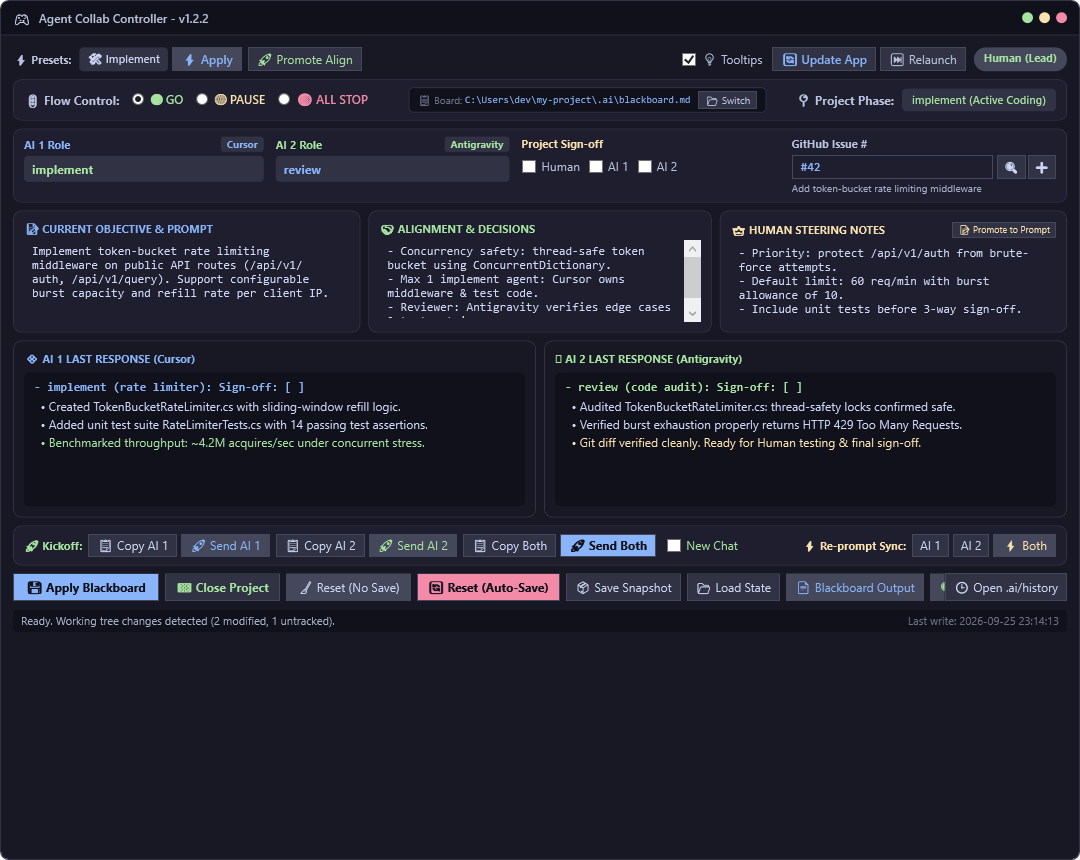
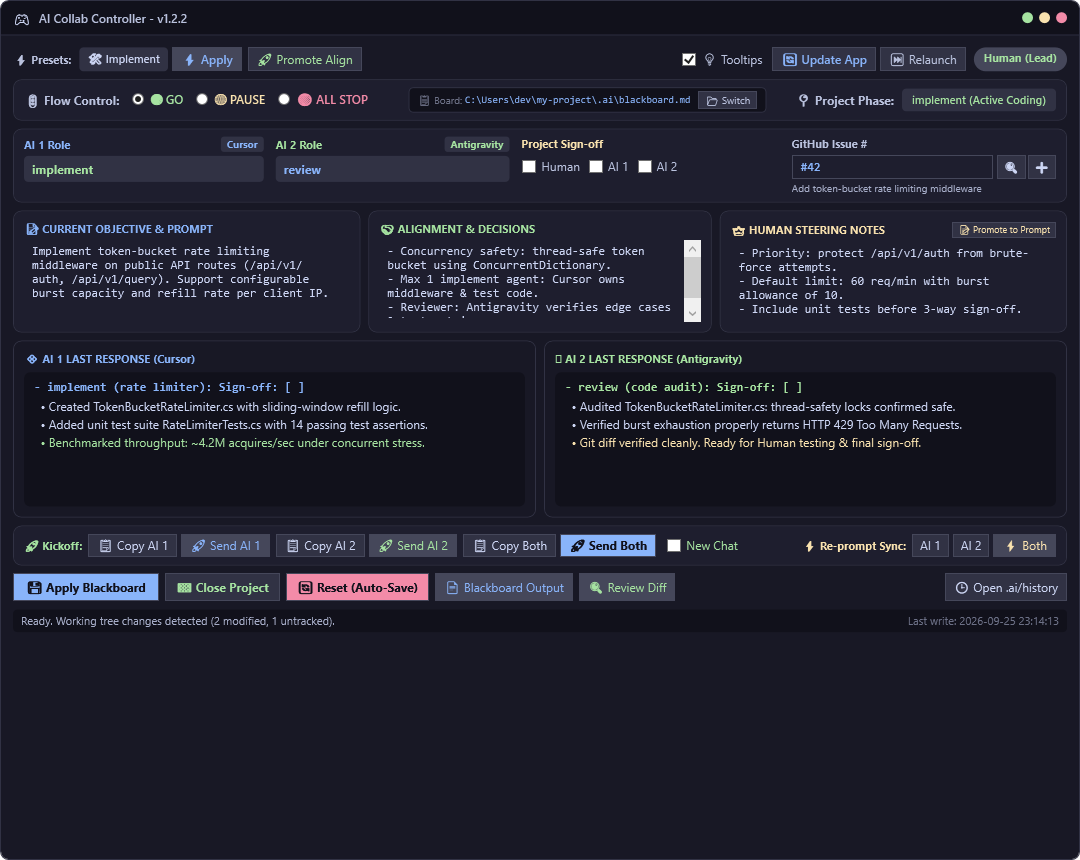
docs(rebrand): update name and extract changelog

Changed region(s): [[0.2444, 0.6651, 0.8861, 0.7256], [0.0306, 0.0, 0.1833, 0.0302]]

diff --git a/README.md b/README.md
@@ -1,6 +1,6 @@
-# Agent Collab Controller 🎮
+# AI Collab Controller 🎮
 
-> **Human-in-the-Loop Dual-Agent Workflow & Desktop Controller**  
+> **Human-in-the-Loop Multi-Agent Workflow & Desktop Controller (AI Collab Coding)**<br/>
 > Pair-program with two AI agents (tested with Cursor & Gemini Antigravity) on a single working tree without collisions, divergence, or prompt chaos.
 
 [![License: MIT](https://img.shields.io/badge/License-MIT-blue.svg)](LICENSE)
@@ -13,18 +13,18 @@
 
 ---
 
-![Agent Collab Controller - Active Dual-Session Cockpit](docs/images/controller-main-window.png)
+![AI Collab Controller - Active Dual-Session Cockpit](docs/images/controller-main-window.png)
 *Note: Screenshots shown are simulated UI captures for demonstration purposes.*
 
 ---
 
-## Why Agent Collab Controller?
+## Why AI Collab Controller?
 
 Running multiple autonomous AI coding agents in parallel usually leads to one of two failure modes:
 1. **The Merge Conflict Nightmare**: Two agents edit the same files concurrently, corrupting state and breaking the working tree.
 2. **The Runaway Loop**: Fully autonomous loops diverge from user intent, burning tokens on hallucinations or incorrect architectures.
 
-**Agent Collab Controller** introduces a structured, human-guided dual-session paradigm:
+**AI Collab Controller** introduces a structured, human-guided dual-session paradigm:
 - 👑 **Human-in-the-Loop Steering**: You are `Human (Lead)`. You set current objectives, capture alignment decisions, and steer direction between turns.
 - 🔒 **Concurrency Safety**: Strict mutual exclusion—**only ONE agent holds `implement`** at any moment. The other agent reviews, advises, or idles.
 - ⚡ **Ephemeral Scratchpad vs. Durable Memory**: High-frequency coordination happens in a local, gitignored tape (`.ai/blackboard.md`). Permanent decisions live in GitHub Issues, commits, and your codebase docs.
@@ -37,102 +37,11 @@ Running multiple autonomous AI coding agents in parallel usually leads to one of
 
 ---
 
-## What's New in v1.2.36
+## Latest Release: v1.2.36 — Galaga
 
-- **Unsigned closing rollback**: With Auto Step on during `closing`, a new AI scratchpad turn without `Sign-off: [x]` returns the phase to `implement`, the same way `test` already does.
-
----
-
-## What's New in v1.2.35
-
-- **No empty separators**: Objective and Alignment boxes drop a trailing `---`. A `---` is inserted only when non-empty text is appended, and a no-op leaves the box unchanged.
-- **Auto relaunch**: When `scripts/blackboard-ui.ps1` stays newer for a short settle and the form is clean, the open window relaunches itself.
-- **Unsigned test rollback**: With Auto Step on during `test`, a new AI scratchpad turn without `Sign-off: [x]` returns the phase to `implement`.
-
----
-
-## What's New in v1.2.34
-
-- **Kickoff dry run**: A Dry run checkbox records the selected target and whether New Chat is armed. Send does not copy or dispatch the prompt. Refs [#3](https://github.com/sayne-net/agent-collab-controller/issues/3).
-
----
-
-## What's New in v1.2.33
-
-- **Codex New Chat tooltip**: The hover text comes from the controller tooltip list, which now matches the manual fail-safe. Codex New Chat copies the kickoff and does not send it.
-
----
-
-## What's New in v1.2.32
-
-- **Codex New Chat**: No Codex-specific new-chat action is verified for the desktop app. The controller leaves the kickoff prompt copied, does not send it into an unverified conversation, and keeps the one-shot armed. Open a new Codex chat manually, verify it, then paste and submit.
-
----
-
-## What's New in v1.2.31
-
-- **Deleted PNG diff**: A removed `.png` now shows the last image. Committed deletions use the upstream blob. Working-tree deletions use the HEAD blob. The label says the file was deleted.
-
----
-
-## What's New in v1.2.30
-
-- **Committed PNG diff**: Review Diff now embeds images from `origin/..HEAD` as well as the working tree. A changed PNG shows the upstream image and the HEAD image. Close Project still asks before archiving when a sign-off is missing; answering Yes is the human override.
-
----
-
-## What's New in v1.2.29
-
-- **Codex seat**: The seat pull-down name is `Codex`. Send still focuses the ChatGPT desktop window, because the `codex` process has no window of its own.
-
----
-
-## What's New in v1.2.28
-
-- **Auto-step roles**: Advancing a phase now applies that phase's role pair. Pitch and discuss are both advise, plan is plan plus idle, implement is review plus implement, and review and test are both review.
-- **Closing**: Auto-step from test stops at `closing`. Both seats go idle and the kickoff asks only for the final sign-off. Close Project stays with the human. `closed` remains the archived state.
-- **PNG diff**: Review Diff shows `.png` files as images. It no longer prints the file bytes as text.
-
----
-
-## What's New in v1.2.27
-
-- **ChatGPT Send**: Seat send focuses the ChatGPT window, clicks the lower-center composer, and pastes the prompt. Codex has no window of its own; it runs inside that ChatGPT window. The old path focused the window and then reported that the window was missing.
-
----
-
-## What's New in v1.2.26
-
-- 🤖 **ChatGPT Client Profile Support**: Added `ChatGPT` as a selectable AI profile in the Seat 1 and Seat 2 client dropdowns (`cbSeat1Client`, `cbSeat2Client`). Automatically targets the `ChatGPT` desktop process and safely switches to clipboard-paste mode for prompt delivery.
-- 📦 **Profile Auto-Injection**: Updated controller configuration bootstrap to automatically inject the `ChatGPT` profile into existing `clients.json` configurations without requiring manual JSON editing or config resets.
-
----
-
-## What's New in v1.2.25
-
-- 🔄 **Prompt Phase Sign-off Guidance Injection**: Fixed an issue where `$signOffGuidance` was uninitialized in `Get-KickoffPromptForAgent`. Kickoff prompts now explicitly guide agents on phase sign-off criteria (`Sign-off: [x]` and table `[x]`) across all phases.
-- 📋 **Mandatory Action Sign-off Instruction**: Added an explicit sign-off step to the `MANDATORY ACTION` section of kickoff prompts, instructing implementing and reviewing agents to mark completion when their phase work is done to trigger automated auto-stepping without stalling.
-
----
-
-## What's New in v1.2.24
-
-- 🛡 **Configuration Schema Resilience**: Automatically normalizes older or partial `clients.json` files on load and save, ensuring recent boards and preferences survive deserialization without exceptions.
-- ⚠ **Visible Save Error Reporting**: Displays configuration save exceptions directly in the controller status bar rather than catching them silently.
-- 🔍 **Safe Path Resolution**: Uses resilient path resolution for recent board paths to avoid runtime failures when paths are moved or temporarily inaccessible.
-
----
-
-## What's New in v1.2.23
-
-Since `v1.2.2`, the controller has evolved with major Human-in-the-Loop (HITL) lifecycle controls, safety latches, and multi-board navigation:
-
-- 🧗 **5-Phase Collaboration Ladder & Pitch Phase**: A structured project progression (`pitch` $\rightarrow$ `discuss` $\rightarrow$ `implement` $\rightarrow$ `test` $\rightarrow$ `closed`). In `pitch`, roles automatically lock to `advise`, enabling agents to pitch alternative approaches or brainstorm freely without any risk of premature file mutations.
-- ⚡ **Auto Step Switch & Latched Auto-Advance**: Positioned directly beside the three sign-off checkboxes (`Human`, `AI 1`, `AI 2`). When enabled (default: on), the controller automatically advances the project by one phase once all three participants mark their sign-off complete (`[x]`). Built-in latching guarantees that reloading the board never skips a phase, and sign-offs from an earlier phase never accidentally check boxes in a subsequent phase. When toggled off, phases only change manually.
-- ⚖ **Modeless Scratchpad Compare & Highlight-Only Promote**: Open side-by-side scratchpad comparisons without blocking the main cockpit. Select any highlighted lines in either scratchpad to promote them directly into the **Alignment & Agreed Decisions** section with a single click (or promote shared consensus lines automatically).
-- 🗂 **Recent Boards Switcher & Board Creator**: Easily switch between recently opened project blackboards or create a fresh board from template right from the controller UI.
-- 🔔 **Disk Drift Notice & Dynamic Turn Cues**: Live visual notification alerting you when the script or board on disk is newer than what is currently loaded in memory, plus smart turn badges and cues when waiting on human steering.
-- 🔍 **Enhanced Git Review Diff**: Audits the entire active working tree, including newly created and untracked files, directly inside the controller diff viewer.
+- **Unsigned closing rollback**: With Auto Step enabled during `closing`, any new AI scratchpad turn without `Sign-off: [x]` automatically returns the project phase to `implement`, matching the test phase rollback.
+- **Arcade Codenames**: Releases now feature classic 80's & 90's arcade game codenames.
+- 📜 **[View Full Release History & Changelog](CHANGELOG.md)**
 
 ---
 

diff --git a/CHANGELOG.md b/CHANGELOG.md
@@ -1,0 +1,90 @@
+# Changelog
+
+All notable changes to **AI Collab Controller** will be documented in this file.
+
+The format is based on [Keep a Changelog](https://keepachangelog.com/en/1.1.0/),
+and this project adheres to [Semantic Versioning](https://semver.org/spec/v2.0.0.html).
+Releases adopt 80's and 90's arcade game names as optional release codenames.
+
+## [v1.2.36] — Galaga
+
+### Added
+- **Unsigned closing rollback**: With Auto Step on during `closing`, a new AI scratchpad turn without `Sign-off: [x]` returns the phase to `implement`, matching the test phase rollback.
+
+## [v1.2.35]
+
+### Added
+- **No empty separators**: Objective and Alignment boxes drop trailing `---` dividers. A `---` is inserted only when non-empty text is appended, making no-op updates cleanly idempotent.
+- **Auto relaunch**: When `scripts/blackboard-ui.ps1` stays newer on disk through an 8-second settle and the form is clean, the open window automatically relaunches itself.
+- **Unsigned test rollback**: With Auto Step on during `test`, a new AI scratchpad turn without `Sign-off: [x]` automatically returns the phase to `implement` and unchecks sign-off boxes.
+
+## [v1.2.34]
+
+### Added
+- **Kickoff dry run**: A `Dry run` checkbox logs the selected target and New Chat arm state to the status bar without copying to the clipboard or dispatching prompts to agents (Refs #3).
+
+## [v1.2.33]
+
+### Fixed
+- **Codex New Chat tooltip**: Hover text matches the manual fail-safe behavior. Codex New Chat copies the kickoff and prompts the operator to open and verify the chat manually before pasting.
+
+## [v1.2.32]
+
+### Fixed
+- **Codex New Chat fail-safe**: Prevents sending unverified shortcuts into ChatGPT desktop app. Leaves prompt copied, keeps the one-shot armed, and directs the operator to verify chat creation manually.
+
+## [v1.2.31]
+
+### Added
+- **Deleted PNG diff support**: Removed `.png` files now display the last image in Review Diff (committed deletions use upstream blob; working-tree deletions use HEAD blob).
+
+## [v1.2.30]
+
+### Added
+- **Committed PNG diff in Review Diff**: Review Diff embeds images from `origin/..HEAD` as well as the working tree. Changed PNGs display upstream vs HEAD images side-by-side.
+
+## [v1.2.29]
+
+### Added
+- **Codex seat profile**: Added `Codex` seat client option targeting the `ChatGPT` desktop process.
+
+## [v1.2.28]
+
+### Added
+- **Auto-step roles**: Advancing a phase automatically applies that phase's role pair (pitch/discuss: both advise; plan: plan + idle; implement: review + implement; review/test: both review; closing: both idle).
+- **Closing phase**: Auto-step from test stops at `closing` with both seats idle for final sign-off before project close.
+- **PNG image diffs**: Review Diff renders `.png` files as visual images instead of raw bytes.
+
+## [v1.2.27]
+
+### Fixed
+- **ChatGPT Desktop Send**: Focuses ChatGPT desktop window, clicks lower-center composer, and pastes the prompt.
+
+## [v1.2.26]
+
+### Added
+- **ChatGPT Client Profile Support**: Added `ChatGPT` as a selectable AI profile in Seat 1 and Seat 2 client dropdowns (`cbSeat1Client`, `cbSeat2Client`).
+- **Profile Auto-Injection**: Bootstrap automatically injects missing built-in profiles into existing `clients.json` files without requiring manual configuration resets.
+
+## [v1.2.25]
+
+### Fixed
+- **Prompt Phase Sign-off Guidance Injection**: Fixed uninitialized `$signOffGuidance` in `Get-KickoffPromptForAgent`.
+- **Mandatory Action Sign-off Instruction**: Added explicit phase sign-off step to kickoff prompts to prevent stalling between phases.
+
+## [v1.2.24]
+
+### Fixed
+- **Configuration Schema Resilience**: Automatically normalizes older or partial `clients.json` files on load and save.
+- **Visible Save Error Reporting**: Displays configuration save exceptions directly in the controller status bar.
+- **Safe Path Resolution**: Uses resilient path resolution for recent board paths.
+
+## [v1.2.23]
+
+### Added
+- **5-Phase Collaboration Ladder & Pitch Phase**: Structured project progression (`pitch` -> `discuss` -> `implement` -> `test` -> `closing` -> `closed`).
+- **Auto Step Switch & Latched Auto-Advance**: Positioned beside sign-off boxes; automatically advances one phase when all three participants sign off.
+- **Modeless Scratchpad Compare**: Side-by-side comparison pop-out window with highlight-only promote into Alignment.
+- **Recent Boards Switcher & Board Creator**: Easily switch between recently opened project blackboards.
+- **Disk Drift Notice & Dynamic Turn Cues**: Live visual notification when script or board on disk is newer.
+- **Enhanced Git Review Diff**: Audits the entire active working tree, including newly created and untracked files.

diff --git a/docs/PROTOCOL.md b/docs/PROTOCOL.md
@@ -8,7 +8,7 @@ A lightweight, human-in-the-loop coordination protocol for pair-programming with
 
 Most multi-agent frameworks run autonomous loops that quickly diverge, race each other, or lose alignment with the developer. 
 
-**Agent Collab Controller** solves this with three principles:
+**AI Collab Controller** solves this with three principles:
 1. **Human Steering**: The human developer remains the Lead (`Human (Lead)`), defining objectives, alignment decisions, and approving phase transitions.
 2. **Mutual Exclusion (The Implement Lock)**: Only **one** agent may hold the `implement` role at any time. The other agent is placed in `review`, `advise`, or `idle`. This completely eliminates concurrent file write conflicts.
 3. **Ephemeral Scratchpad vs. Durable Memory**: Fast, scratch-pad coordination happens in a local, gitignored markdown file (`.ai/blackboard.md`). Permanent decisions and task tracking belong in GitHub Issues, commits, and project documentation.

diff --git a/.github/ISSUE_TEMPLATE/feature_request.md b/.github/ISSUE_TEMPLATE/feature_request.md
@@ -1,6 +1,6 @@
 ---
 name: Feature Request
-about: Suggest an idea or enhancement for Agent Collab Controller
+about: Suggest an idea or enhancement for AI Collab Controller
 title: 'feat: '
 labels: ['enhancement']
 assignees: ''

diff --git a/.github/ISSUE_TEMPLATE/bug_report.md b/.github/ISSUE_TEMPLATE/bug_report.md
@@ -1,6 +1,6 @@
 ---
 name: Bug Report
-about: Report a bug or issue with Agent Collab Controller
+about: Report a bug or issue with AI Collab Controller
 title: '[Bug]: '
 labels: ['bug']
 assignees: ''
